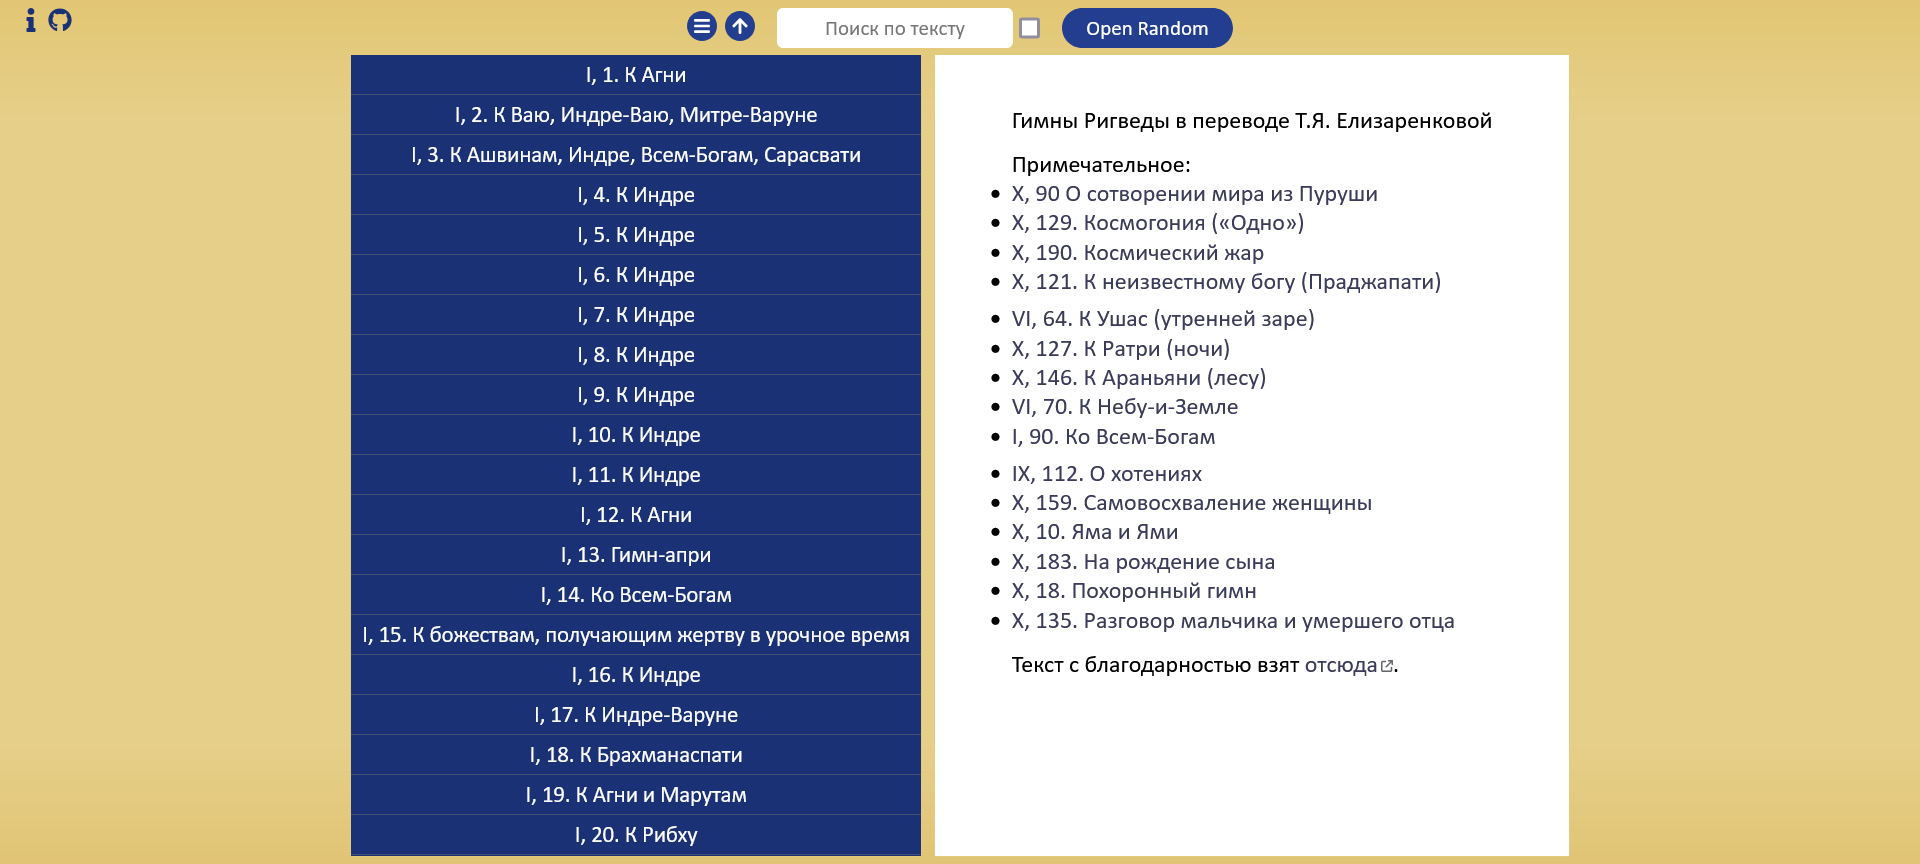
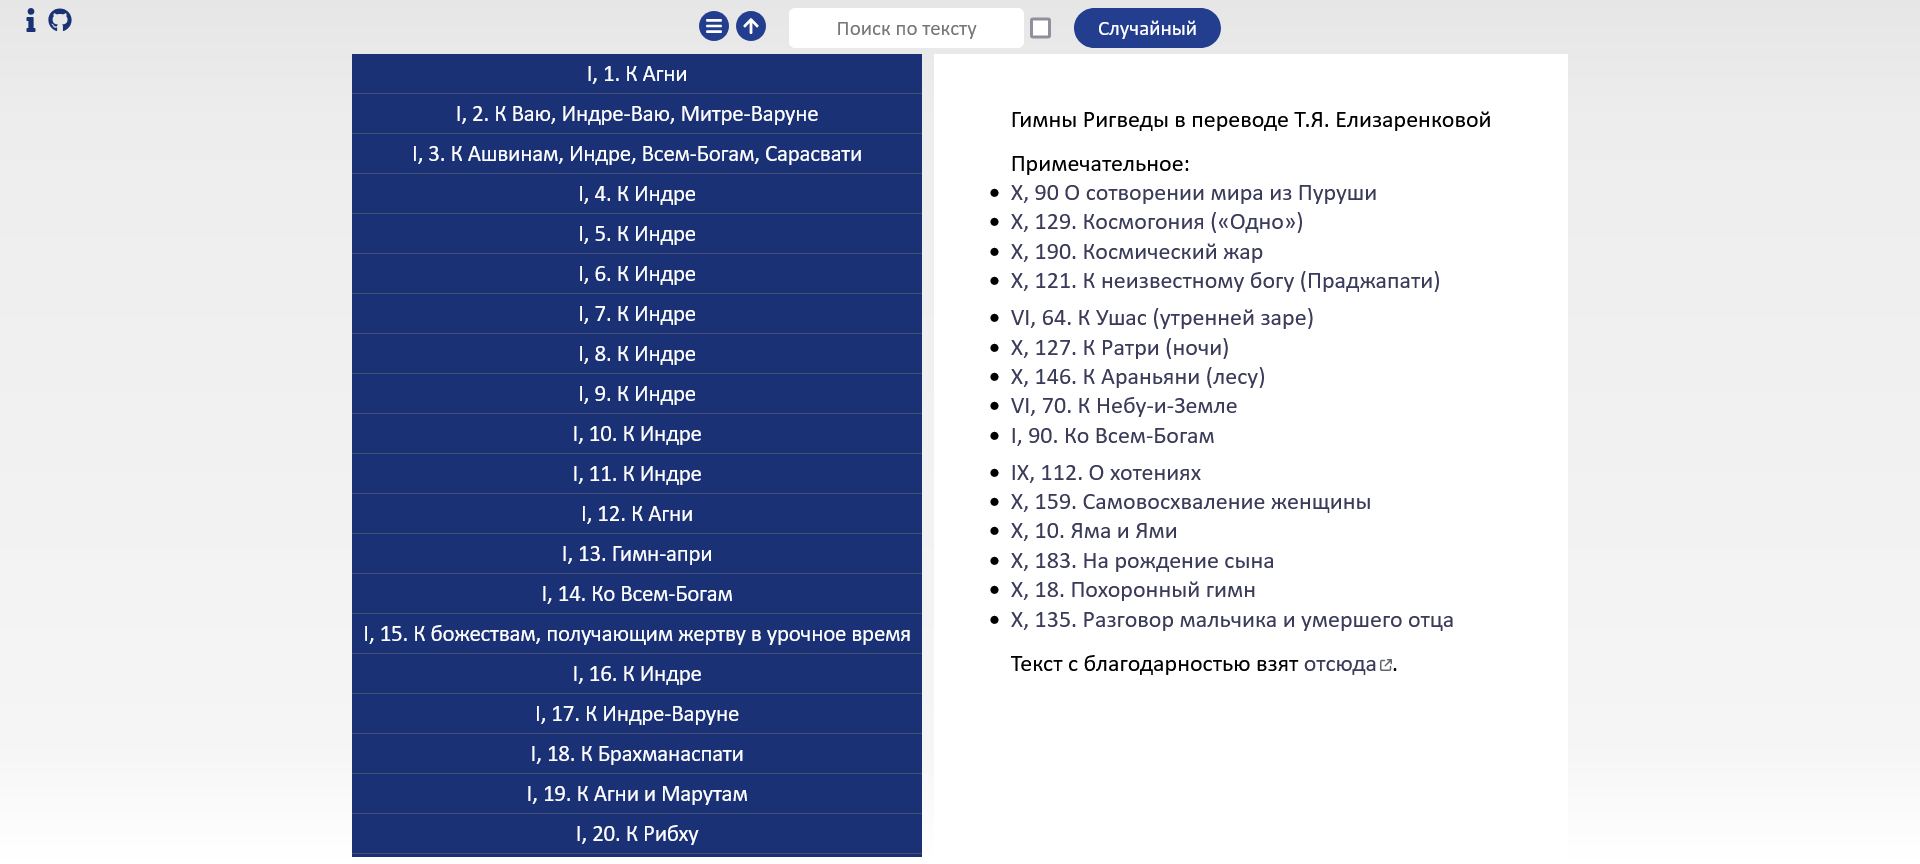
smallfix

diff --git a/app/_components/FeaturedProjects.jsx b/app/_components/FeaturedProjects.jsx
@@ -168,9 +168,9 @@ function FeaturedProjects() {
                 </div>
               </div>
               <p className="text-zinc-600 my-2 flex-1">
-                Большая антология отрывков с возможностью поиска и фильтрации.
-                Тексты в модальных окнах, которые также функционируют как
-                отдельные страницы.
+                Большая антология отрывков с постепенной подгрузкой. Тексты в
+                модальных окнах, которые также функционируют как отдельные
+                страницы.
               </p>
               <div className="my-1 flex flex-wrap place-content-center xs:place-content-start">
                 <Button
@@ -210,9 +210,9 @@ function FeaturedProjects() {
                   <Screenshot onModalOpen={onModalOpen} src="/rigveda2.png" />
                 </Carousel>
                 <div className="absolute right-1.5 bottom-1.5 ">
-                  <div className="rounded-full bg-zinc-800">
+                  <div className="rounded-full">
                     <img
-                      src="/next-js.svg"
+                      src="/nodejs.svg"
                       alt="Next.js Icon"
                       className="w-7 h-7"
                     />
@@ -220,8 +220,8 @@ function FeaturedProjects() {
                 </div>
               </div>
               <p className="text-zinc-600 my-2 flex-1">
-                Все гимны Ригведы в формате псевдо базы данных (js-объект со
-                всеми текстами) с возможностью поиска по ней.
+                Все гимны Ригведы в формате json/js с возможностью поиска. SPA +
+                SSG без фреймворков и npm пакетов, билдер написан на nodejs.
               </p>
               <div className="my-1 flex flex-wrap place-content-center xs:place-content-start">
                 <Button
@@ -240,7 +240,7 @@ function FeaturedProjects() {
                     На сайт <IoOpenOutline className="ml-0.5" />
                   </Button>
                   <Button
-                    href="https://github.com/siebentod/rigveda"
+                    href="https://github.com/siebentod/rigveda-purejs"
                     type="secondary"
                     className="ml-1.5"
                   >

diff --git a/app/_components/Texts.jsx b/app/_components/Texts.jsx
@@ -106,15 +106,23 @@ export const TextRigveda = ({ url, closeModal }) => {
     <>
       <div className="text-white m-5">
         <p>
-          Текст взят с другого сайта. Его объем очень большой, для обработки –
-          перевода в другой формат, а также исправления ошибок OCR –
-          использовалось множество{' '}
-          <span className="text-yellow">nodejs-скриптов</span>, с которыми
-          помогал ChatGPT.
+          "Pure JS" проект. Не используется{' '}
+          <span className="text-yellow">никаких npm пакетов</span>, несложный
+          билдер написан собственноручно.
         </p>
         <p className="mt-4">
-          Ссылки функционируют как отдельные страницы с заглавиями, которые
-          можно сохранить в закладки.
+          При прямом заходе на какую-либо страницу (из 1028) открывается ее
+          сгенерированный html. При нажатии на ссылку на странице работает как
+          SPA.
+        </p>
+        <p className="mt-4">
+          Предыдущая версии сайта:{' '}
+          <a
+            href="https://github.com/siebentod/rigveda-nextjs"
+            className="underline"
+          >
+            Next.js
+          </a>
         </p>
       </div>
       <div className="grid grid-cols-2 gap-2 mt-4">
